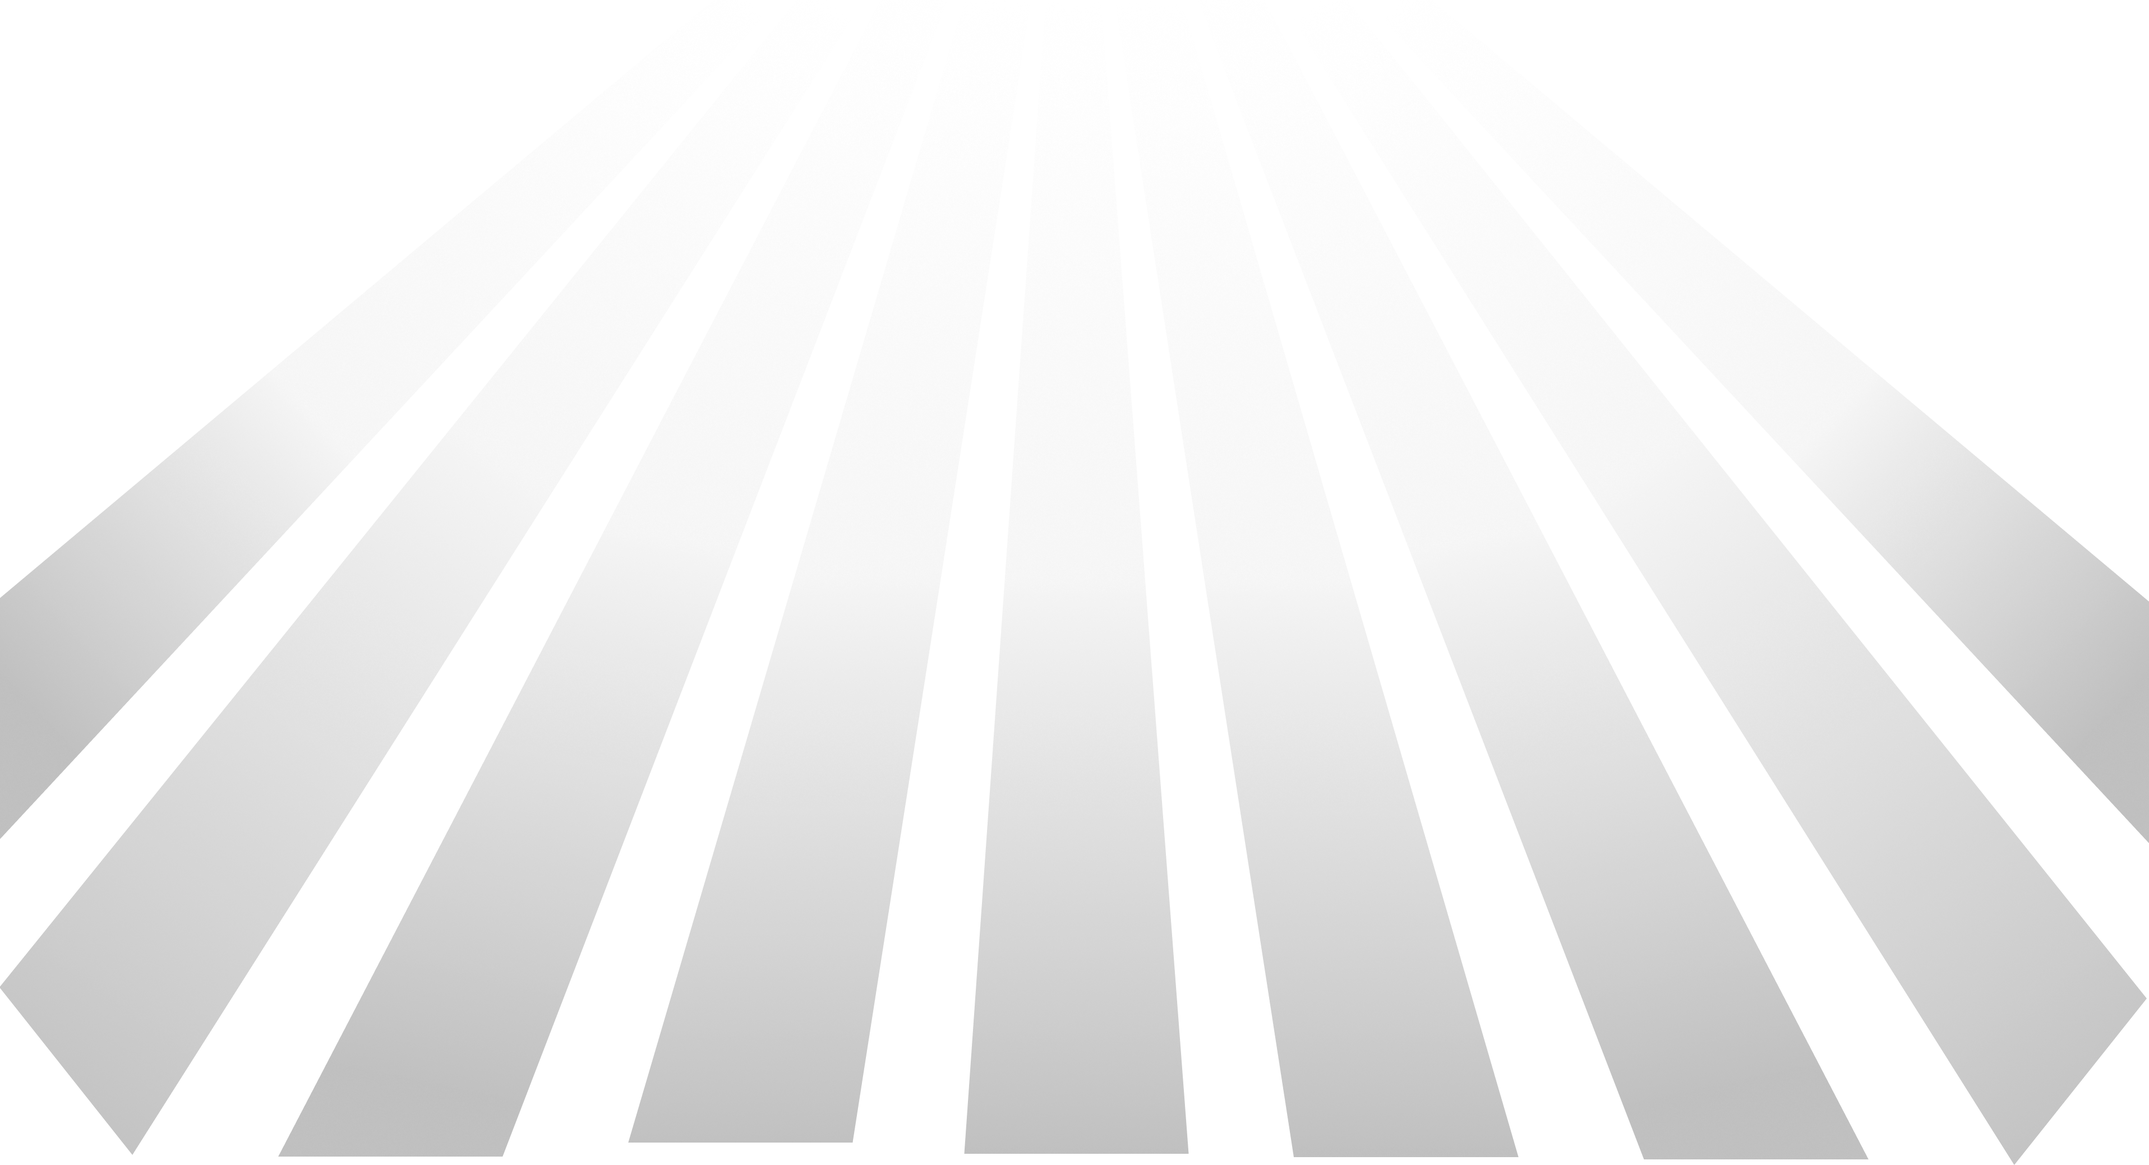
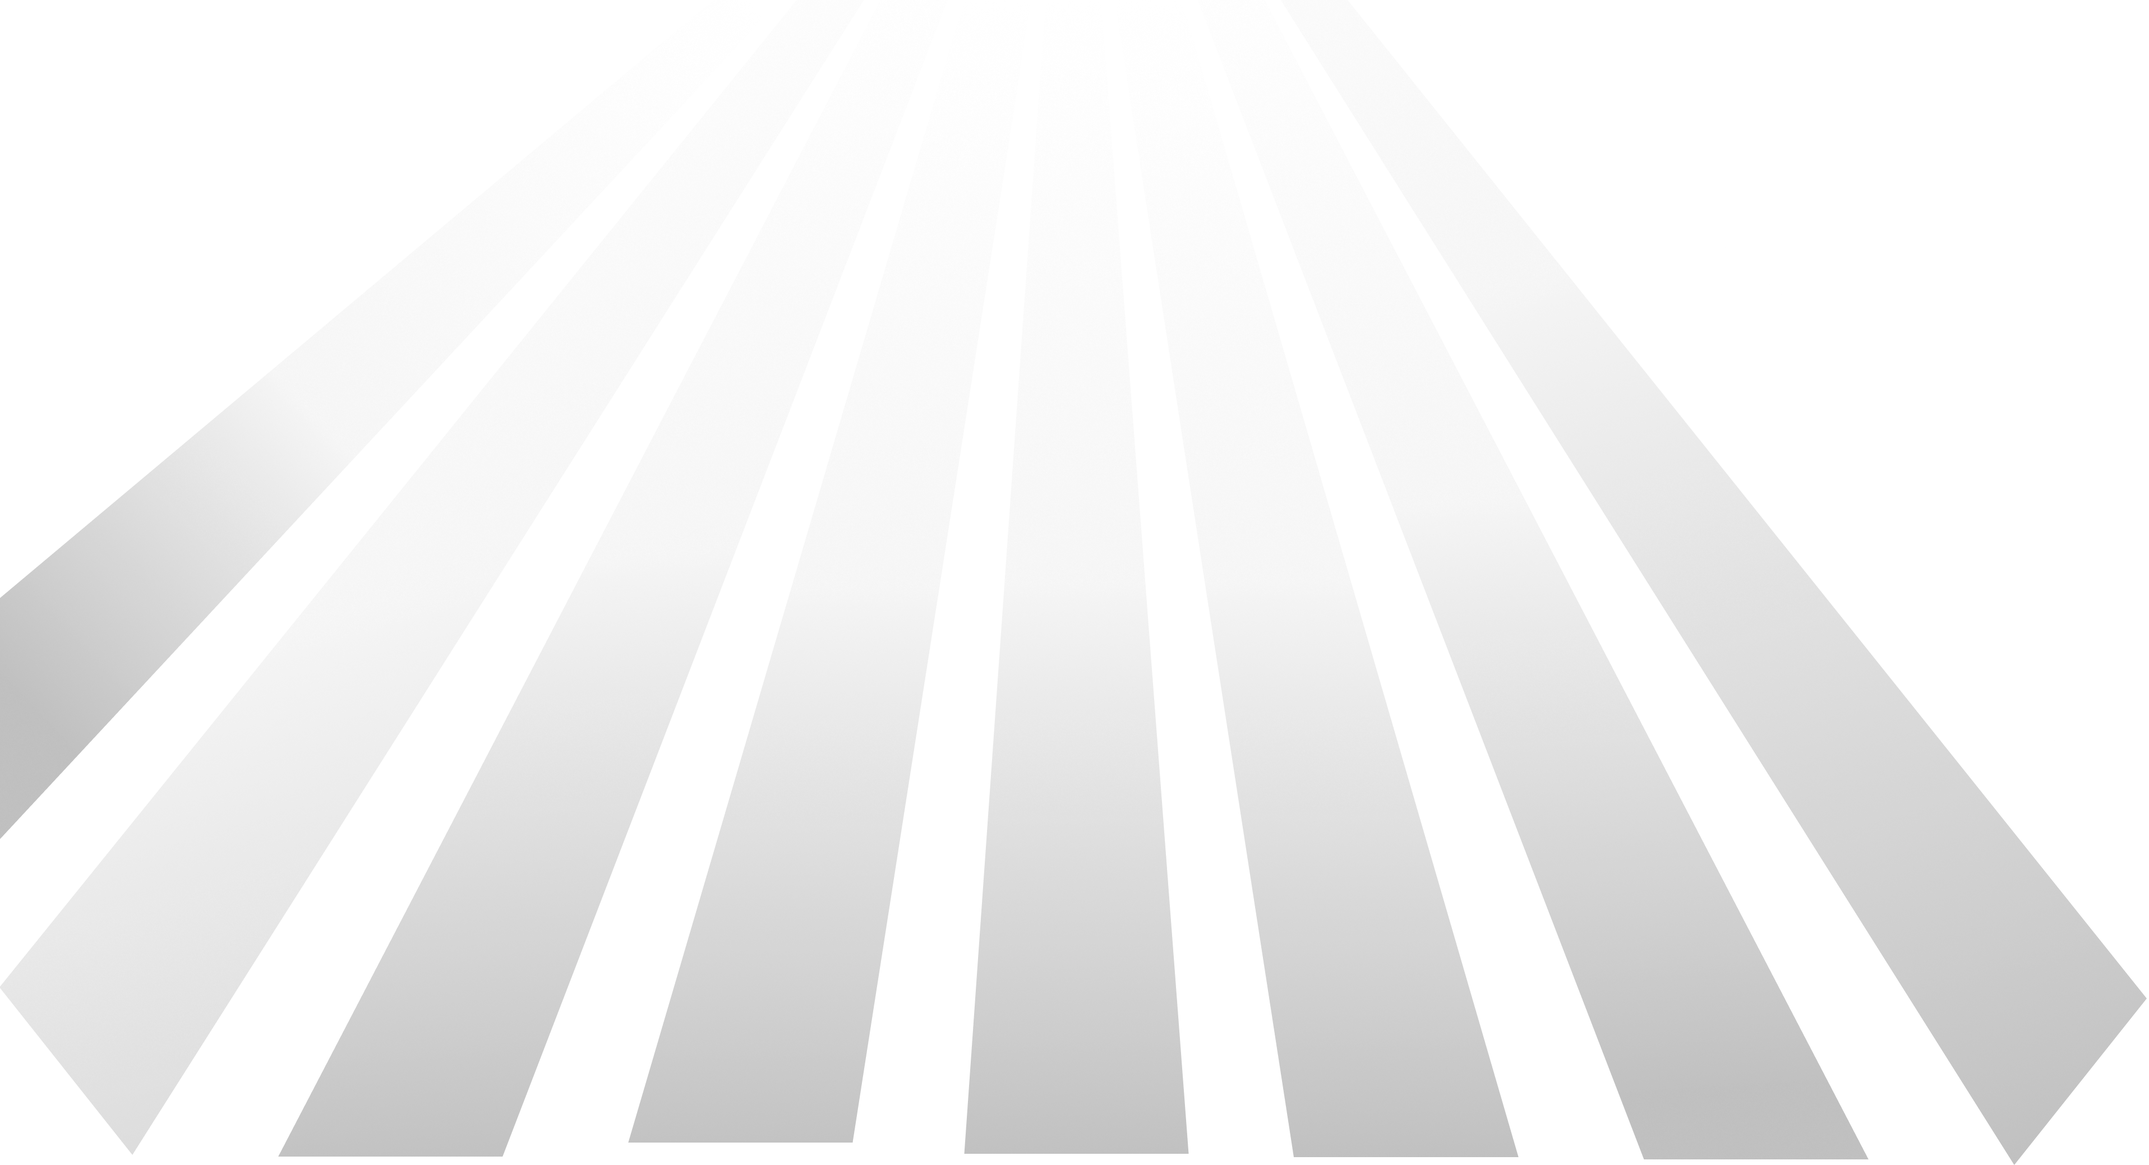
Added responsivity to the mobile version

Changed region(s): [[0.8695, 0.3696, 1.0, 0.7392], [0.0, 0.7084, 0.0932, 0.9856]]

diff --git a/html/reseaux.html b/html/reseaux.html
@@ -16,13 +16,26 @@
     <link rel="icon" type="image/x-icon" href="/assets/img/skoph.webp">
 </head>
 <header>
-    <nav class="navigation">
-        <img src="../assets/img/skophB.webp" alt="Logo de Skoph" class="logo-nav">
-        <a class="text-black" href="../index.html">Accueil</a>
-        <a class="text-black" href="projets.html">Projets</a>
-        <a class="text-black" href="passions.html">Passions</a>
-        <a class="text-black" href="#">Réseaux Sociaux</a>
-    </nav>
+    <nav class="navbar navbar-expand-lg bg-light position-sticky top-0 z-3">
+        <div class="container m-0">
+            <img src="../assets/img/skophBS.webp" alt="Logo de Skoph" style="width: 3%; margin-right: 1%; margin-left: 1%;">
+            <button class="navbar-toggler" data-bs-toggle="collapse" data-bs-target="#menu">
+                <span class="navbar-toggler-icon"></span>
+            </button>
+            <div class="collapse navbar-collapse" id="menu">
+                <ul class="navbar-nav">
+                    <li class="nav-item">
+                        <a class="nav-link" href="../index.html">Accueil</a>
+                    </li>
+                    <li class="nav-item">
+                        <a class="nav-link" href="#">Projets</a>
+                    </li>
+                    <li class="nav-item">
+                        <a class="nav-link" href="passions.html">Passions</a>
+                    </li>
+                    <li class="nav-item">
+                        <a class="nav-link" href="reseaux.html">Réseaux Sociaux</a>
+                    </li>
 </header>
 <body class="bg-black">
     <style>
@@ -33,6 +46,15 @@
             background-size: contain;
             background-position: center;
         }
+        @media (max-width: 768px) {
+            body {
+                background-image: url(../assets/img/spotlightMobile.webp);
+                background-repeat:no-repeat;
+                background-attachment: fixed;
+                background-size: cover;
+                background-position: center;
+            }
+        }
     </style>
     <center><h2>Réseaux Sociaux</h2></center>
     <center><img src="../assets/img/ornementTitreReseaux.webp" alt="Ornement de titre" style="width:16%; margin-bottom: 4%;"></center>
@@ -40,15 +62,23 @@
     <div class="container">
         <div class="row row-cols-4 row-cols-md-2 row-cols-lg-4 row-cols-sm-1">
             <div class="col">
+                <a href="https://cara.app/fantasticskoph" aria-label="Lien vers mon profil Cara" style="font-size:120%;">BlueSky</a>
+                <center><img src="../assets/img/underlineS.webp" alt="Ornement de titre" style="width:40%; margin-bottom:10%;"></center>
                 <a class="navigation" href="https://bsky.app/profile/fantasticskoph.bsky.social"><img src="../assets/img/bluesky.webp" alt="Logo BlueSky cliquable" class="logo" style="max-width:50%"></a>
             </div>
             <div class="col">
+                <a href="https://cara.app/fantasticskoph" aria-label="Lien vers mon profil Cara" style="font-size:120%;">Cara</a>
+                <center><img src="../assets/img/underlineXS.webp" alt="Ornement de titre" style="width:30%; margin-bottom:10%;"></center>
                 <a class="navigation" href="https://cara.app/fantasticskoph"><img src="../assets/img/cara.webp" alt="Logo Cara cliquable" class="logo" style="max-width:50%"></a>
             </div>
             <div class="col">
+                <a href="https://cara.app/fantasticskoph" aria-label="Lien vers mon profil Cara" style="font-size:120%;">LinkedIn</a>
+                <center><img src="../assets/img/underlineS.webp" alt="Ornement de titre" style="width:40%; margin-bottom:10%;"></center>
                 <a class="navigation" href="https://www.linkedin.com/in/eve-cauvin-9275ab316/"><img src="../assets/img/linkedin.webp" alt="Logo LinkedIn cliquable" class="logo" style="max-width:50%"></a>
             </div>
             <div class="col">
+                <a href="https://cara.app/fantasticskoph" aria-label="Lien vers mon profil Cara" style="font-size:120%;">GitHub</a>
+                <center><img src="../assets/img/underlineS.webp" alt="Ornement de titre" style="width:40%; margin-bottom:10%;"></center>
                 <a class="navigation" href="https://github.com/FantasticSkoph"><img src="../assets/img/github.webp" alt="Logo GitHub cliquable" class="logo" style="max-width:50%"></a>
             </div>
         </div>

diff --git a/html/projets.html b/html/projets.html
@@ -16,13 +16,26 @@
     <link rel="icon" type="image/x-icon" href="/assets/img/skoph.webp">
 </head>
 <header>
-    <nav class="navigation">
-        <img src="../assets/img/skophB.webp" alt="Logo de Skoph" class="logo-nav">
-        <a class="text-black" href="../index.html">Accueil</a>
-        <a class="text-black" href="#">Projets</a>
-        <a class="text-black" href="passions.html">Passions</a>
-        <a class="text-black" href="reseaux.html">Réseaux Sociaux</a>
-    </nav>
+    <nav class="navbar navbar-expand-lg bg-light position-sticky top-0 z-3">
+        <div class="container m-0">
+            <img src="../assets/img/skophBS.webp" alt="Logo de Skoph" style="width: 3%; margin-right: 1%; margin-left: 1%;">
+            <button class="navbar-toggler" data-bs-toggle="collapse" data-bs-target="#menu">
+                <span class="navbar-toggler-icon"></span>
+            </button>
+            <div class="collapse navbar-collapse" id="menu">
+                <ul class="navbar-nav">
+                    <li class="nav-item">
+                        <a class="nav-link" href="../index.html">Accueil</a>
+                    </li>
+                    <li class="nav-item">
+                        <a class="nav-link" href="#">Projets</a>
+                    </li>
+                    <li class="nav-item">
+                        <a class="nav-link" href="passions.html">Passions</a>
+                    </li>
+                    <li class="nav-item">
+                        <a class="nav-link" href="reseaux.html">Réseaux Sociaux</a>
+                    </li>
 </header>
 <body class="bg-black">
     <style>
@@ -33,12 +46,21 @@
             background-size: contain;
             background-position: center;
         }
+        @media (max-width: 768px) {
+            body {
+                background-image: url(assets/img/spotlightMobile.webp);
+                background-repeat:no-repeat;
+                background-attachment: fixed;
+                background-size: cover;
+                background-position: center;
+            }
+        }
     </style>
     <center><h2>Projets</h2></center>
     <center><img src="../assets/img/ornementTitreProjets.webp" alt="Ornement de titre" style="width:7%; margin-bottom: 2%;"></center>
     <center><p class="text-white" style="font-size:20px; margin-bottom:3%;">Quelques projets que j'ai déjà réalisé et/ou sur lesquels je travaille encore.</p></center>
     <div class="container">
-            <div class="row row-cols-3 row-cols-md-2 row-cols-lg-3 row-cols-sm-1">
+            <div class="row row-cols-3 row-cols-md-1 row-cols-lg-3 row-cols-sm-1">
                 <div class="col">
                     <a class="navigation" href="https://fantasticskoph.github.io/L-Ere_des_Cendres/" aria-label="Lien vers la BD en ligne l'Ere des Cendres">L'Ère des Cendres</a>
                     <center><img src="../assets/img/underline.webp" alt="Ornement de titre" style="width:50%;"></center>
@@ -59,5 +81,6 @@
 </body>
 <footer>
     <p class="text-black text-center">©2025 - CAUVIN Eve. Tous droits réservés.</p>
+    <script src="https://cdn.jsdelivr.net/npm/bootstrap@5.3.7/dist/js/bootstrap.bundle.min.js" integrity="sha384-ndDqU0Gzau9qJ1lfW4pNLlhNTkCfHzAVBReH9diLvGRem5+R9g2FzA8ZGN954O5Q" crossorigin="anonymous"></script>
 </footer>
 </html>

diff --git a/index.html b/index.html
@@ -23,24 +23,33 @@
             background-attachment: fixed;
             background-size: cover;
         }
+        @media (max-width: 768px) {
+            body {
+                background-image: url(assets/img/spotlightMobile.webp);
+                background-repeat:no-repeat;
+                background-attachment: fixed;
+                background-size: contain;
+                background-position: center;
+            }
+        }
     </style>
     <center><h1 class="text-white">CAUVIN Eve</h1></center>
-    <center><img src="assets/img/ornementTitreH1.webp" alt="Ornement de titre" style="width:12%;"></center>
+    <center><img src="assets/img/ornementTitreH1.webp" alt="Ornement de titre" style="min-width:11%; max-width:30%;"></center>
     <center><h2 class="text-white">Développeuse Web et Web Mobile</h2></center>
-    <center><img src="assets/img/ornementTitreH2.webp" alt="Ornement de titre" style="width:32%;"></center>
+    <center><img src="assets/img/ornementTitreH2.webp" alt="Ornement de titre" style="min-width:25%; max-width:40%;"></center>
     <div class="container">
-            <div class="row row-cols-3 row-cols-md-2 row-cols-lg-3 row-cols-sm-1" style="margin-top: 4rem;">
+            <div class="row row-cols-3 row-cols-sm-1 row-cols-lg-3 row-cols-sm-1" style="margin-top: 4rem;">
                 <div class="col">
                     <a href="html/projets.html" class="navigation">Projets</a>
-                    <center><img src="assets/img/hollowKnight2.webp" alt="Ornement de titre" style="width:15rem;"></center>
+                    <center><img src="assets/img/hollowKnight2.webp" alt="Ornement de titre" style="width:15rem; margin-bottom: 4%"></center>
                 </div>
                 <div class="col">
                     <a href="html/passions.html" class="navigation">Passions</a>
-                    <center><img src="assets/img/hollowKnight2.webp" alt="Ornement de titre" style="width:15rem;"></center>
+                    <center><img src="assets/img/hollowKnight2.webp" alt="Ornement de titre" style="width:15rem; margin-bottom: 4%"></center>
                 </div>
                 <div class="col">
                     <a href="html/reseaux.html" class="navigation">Réseaux Sociaux</a>
-                    <center><img src="assets/img/hollowKnight2.webp" alt="Ornement de titre" style="width:15rem;"></center>
+                    <center><img src="assets/img/hollowKnight2.webp" alt="Ornement de titre" style="width:15rem; margin-bottom: 4%"></center>
                 </div>
             </div>
     </div>

diff --git a/html/passions.html b/html/passions.html
@@ -16,13 +16,26 @@
     <link rel="icon" type="image/x-icon" href="/assets/img/skoph.webp">
 </head>
 <header>
-    <nav>
-        <img src="../assets/img/skophBS.webp" alt="Logo de Skoph" class="logo-nav">
-        <a class="text-black" class="navigation" href="../index.html">Accueil</a>
-        <a class="text-black" class="navigation" href="projets.html">Projets</a>
-        <a class="text-black" class="navigation" href="#">Passions</a>
-        <a class="text-black" class="navigation" href="reseaux.html">Réseaux Sociaux</a>
-    </nav>
+    <nav class="navbar navbar-expand-lg bg-light position-sticky top-0 z-3">
+        <div class="container m-0">
+            <img src="../assets/img/skophBS.webp" alt="Logo de Skoph" style="width: 3%; margin-right: 1%; margin-left: 1%;">
+            <button class="navbar-toggler" data-bs-toggle="collapse" data-bs-target="#menu">
+                <span class="navbar-toggler-icon"></span>
+            </button>
+            <div class="collapse navbar-collapse" id="menu">
+                <ul class="navbar-nav">
+                    <li class="nav-item">
+                        <a class="nav-link" href="../index.html">Accueil</a>
+                    </li>
+                    <li class="nav-item">
+                        <a class="nav-link" href="#">Projets</a>
+                    </li>
+                    <li class="nav-item">
+                        <a class="nav-link" href="#">Passions</a>
+                    </li>
+                    <li class="nav-item">
+                        <a class="nav-link" href="reseaux.html">Réseaux Sociaux</a>
+                    </li>
 </header>
 <body class="bg-black">
     <style>
@@ -30,8 +43,14 @@
             background-image: url(../assets/img/spotlightPassions.webp);
             background-repeat:no-repeat;
             background-attachment: fixed;
-            background-size:contain;
+            background-size: fill;
             background-position: center;
+        }
+        @media (max-width: 768px) {
+            body {
+                background-image: url(../assets/img/spotlightPassionsMobile.webp);
+                background-size: cover;
+            }
         }
     </style>
     <center><h2>Passions</h2></center>

diff --git a/html/passion2.html b/html/passion2.html
@@ -16,13 +16,26 @@
     <link rel="icon" type="image/x-icon" href="/assets/img/skoph.webp">
 </head>
 <header>
-    <nav class="navigation">
-        <img src="../assets/img/skophB.webp" alt="Logo de Skoph" class="logo-nav">
-        <a class="text-black" class="navigation" href="../index.html">Accueil</a>
-        <a class="text-black" class="navigation" href="#">Projets</a>
-        <a class="text-black" class="navigation" href="passions.html">Passions</a>
-        <a class="text-black" class="navigation" href="reseaux.html">Réseaux Sociaux</a>
-    </nav>
+    <nav class="navbar navbar-expand-lg bg-light position-sticky top-0 z-3">
+        <div class="container m-0">
+            <img src="../assets/img/skophBS.webp" alt="Logo de Skoph" style="width: 3%; margin-right: 1%; margin-left: 1%;">
+            <button class="navbar-toggler" data-bs-toggle="collapse" data-bs-target="#menu">
+                <span class="navbar-toggler-icon"></span>
+            </button>
+            <div class="collapse navbar-collapse" id="menu">
+                <ul class="navbar-nav">
+                    <li class="nav-item">
+                        <a class="nav-link" href="../index.html">Accueil</a>
+                    </li>
+                    <li class="nav-item">
+                        <a class="nav-link" href="#">Projets</a>
+                    </li>
+                    <li class="nav-item">
+                        <a class="nav-link" href="passions.html">Passions</a>
+                    </li>
+                    <li class="nav-item">
+                        <a class="nav-link" href="reseaux.html">Réseaux Sociaux</a>
+                    </li>
 </header>
 <body class="bg-black">
     <center><h2>Dragons</h2></center>

diff --git a/html/passion3.html b/html/passion3.html
@@ -16,13 +16,26 @@
     <link rel="icon" type="image/x-icon" href="/assets/img/skoph.webp">
 </head>
 <header>
-    <nav class="navigation">
-        <img src="../assets/img/skophB.webp" alt="Logo de Skoph" class="logo-nav">
-        <a class="text-black" href="../index.html">Accueil</a>
-        <a class="text-black" href="#">Projets</a>
-        <a class="text-black" href="passions.html">Passions</a>
-        <a class="text-black" href="reseaux.html">Réseaux Sociaux</a>
-    </nav>
+    <nav class="navbar navbar-expand-lg bg-light position-sticky top-0 z-3">
+        <div class="container m-0">
+            <img src="../assets/img/skophBS.webp" alt="Logo de Skoph" style="width: 3%; margin-right: 1%; margin-left: 1%;">
+            <button class="navbar-toggler" data-bs-toggle="collapse" data-bs-target="#menu">
+                <span class="navbar-toggler-icon"></span>
+            </button>
+            <div class="collapse navbar-collapse" id="menu">
+                <ul class="navbar-nav">
+                    <li class="nav-item">
+                        <a class="nav-link" href="../index.html">Accueil</a>
+                    </li>
+                    <li class="nav-item">
+                        <a class="nav-link" href="#">Projets</a>
+                    </li>
+                    <li class="nav-item">
+                        <a class="nav-link" href="passions.html">Passions</a>
+                    </li>
+                    <li class="nav-item">
+                        <a class="nav-link" href="reseaux.html">Réseaux Sociaux</a>
+                    </li>
 </header>
 <body class="bg-black">
     <center><h2>Jeux de Rôle</h2></center>

diff --git a/html/passion1.html b/html/passion1.html
@@ -16,13 +16,26 @@
     <link rel="icon" type="image/x-icon" href="/assets/img/skoph.webp">
 </head>
 <header>
-    <nav class="navigation">
-        <img src="../assets/img/skophB.webp" alt="Logo de Skoph" class="logo-nav">
-        <a class="text-black" href="../index.html">Accueil</a>
-        <a class="text-black" href="#">Projets</a>
-        <a class="text-black" href="passions.html">Passions</a>
-        <a class="text-black" href="reseaux.html">Réseaux Sociaux</a>
-    </nav>
+    <nav class="navbar navbar-expand-lg bg-light position-sticky top-0 z-3">
+        <div class="container m-0">
+            <img src="../assets/img/skophBS.webp" alt="Logo de Skoph" style="width: 3%; margin-right: 1%; margin-left: 1%;">
+            <button class="navbar-toggler" data-bs-toggle="collapse" data-bs-target="#menu">
+                <span class="navbar-toggler-icon"></span>
+            </button>
+            <div class="collapse navbar-collapse" id="menu">
+                <ul class="navbar-nav">
+                    <li class="nav-item">
+                        <a class="nav-link" href="../index.html">Accueil</a>
+                    </li>
+                    <li class="nav-item">
+                        <a class="nav-link" href="#">Projets</a>
+                    </li>
+                    <li class="nav-item">
+                        <a class="nav-link" href="passions.html">Passions</a>
+                    </li>
+                    <li class="nav-item">
+                        <a class="nav-link" href="reseaux.html">Réseaux Sociaux</a>
+                    </li>
 </header>
 <body class="bg-black">
     <center><h2>Jeux Vidéos</h2></center>

diff --git a/style.css b/style.css
@@ -2,13 +2,13 @@ h1{
     font-family: 'Inknut Antiqua', serif;
     margin-top: 5rem;
     margin-bottom: 1rem;
-    font-size: 26px;
+    font-size: 2rem;
 }
 h2{
     font-family: 'Inknut Antiqua', serif;
     margin-top: 3%;
     margin-bottom: 1rem;
-    font-size: 26px;
+    font-size: 2rem;
 }
 body{
     font-family: 'Merriweather', serif;
@@ -48,7 +48,7 @@ a{
     display: flex;
     flex-direction: row;
     justify-content: space-evenly;
-    font-size: 20px;
+    font-size: 130%;
 }
 .nav-item {
     display: inline-block;
@@ -70,8 +70,7 @@ footer{
     font-family: 'Merriweather', serif;
 }
 p{
-    margin: 0%;
-    font-size: 12px;
+    font-size: 80%;
     color: black;
-    font-family: 'merriweather', serif;
+    font-family: 'Merriweather', serif;
 }
